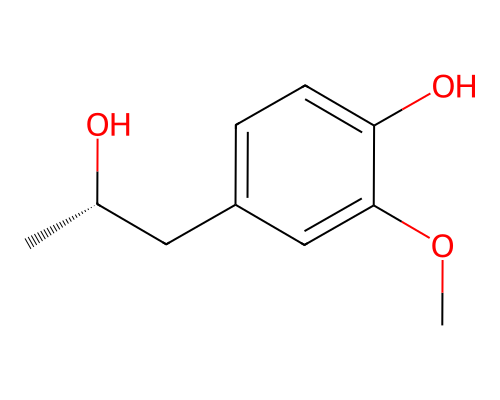
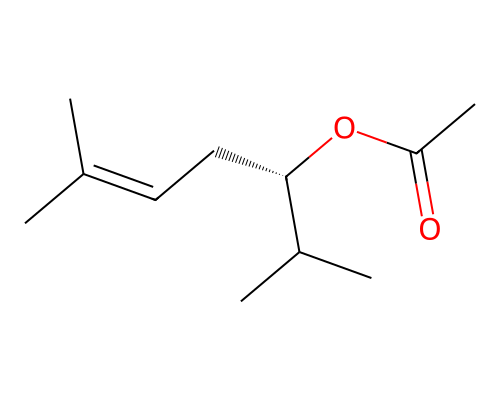
feat(NPGPT-rl): add comprehensive README for RL fine-tuning module
Add detailed README.md to src/NPGPT-rl/ documenting the full
REINFORCE-based RL fine-tuning pipeline for NPGPT.

Contents:
- Pipeline overview diagram (links to docs/npgpt_rl_pipeline.png)
- File structure table explaining each script's role:
  train_rl.py, reward.py, acegen_adapter.py,
  sweep_checkpoints.py, compare_models.py
- Algorithm description with mathematical formulations:
  REINFORCE with baseline subtraction, KL regularization
  against frozen prior (πref), multi-objective reward function
  (validity w=1.0, QED w=0.3, SA w=0.3, NP-likeness w=0.4)
- Detailed usage instructions for three workflows:
  1. RL training (train_rl.py) with all CLI arguments
  2. Checkpoint sweep evaluation (sweep_checkpoints.py)
  3. Pretrained vs RL model comparison (compare_models.py)
- ASCII architecture diagram of the full pipeline
- Dependency list and paper references
  (Thomas et al. JCIM 2025, Bou et al. JCIM 2024, Sakano et al. 2025)

diff --git a/src/npgpt-rl/README.md b/src/npgpt-rl/README.md
@@ -1,0 +1,196 @@
+# NPGPT-RL: Reinforcement Learning Fine-tuning for NPGPT
+
+NPGPT-RL applies the REINFORCE policy gradient algorithm to fine-tune the pretrained [NPGPT](https://github.com/ohuelab/npgpt) model (~2.6M parameters), optimizing for multi-objective molecular properties. The RL approach is based on [Thomas et al. (2025)](https://doi.org/10.1021/acs.jcim.5c02053) and uses the [AceGen](https://github.com/acellera/acegen-open) framework.
+
+![NPGPT-RL Pipeline](../../docs/npgpt_rl_pipeline.png)
+
+## Overview
+
+The RL fine-tuning pipeline consists of the following components:
+
+| File | Description |
+|------|-------------|
+| `train_rl.py` | Main RL training script (REINFORCE + experience replay + KL regularization) |
+| `reward.py` | Multi-objective reward function (validity, QED, SA, NP-likeness) |
+| `acegen_adapter.py` | Adapter to bridge NPGPT (HuggingFace GPT-2) with AceGen's RL environment |
+| `sweep_checkpoints.py` | Evaluate all checkpoints and plot metrics vs training step |
+| `compare_models.py` | Compare pretrained vs RL-finetuned model with histograms |
+| `npgpt.ckpt` | Pretrained NPGPT checkpoint |
+| `npgpt_rl_step_600.ckpt` | Best RL-finetuned checkpoint (step 600) |
+
+## Algorithm
+
+NPGPT-RL uses REINFORCE with the following components:
+
+**Policy Gradient (REINFORCE with baseline)**:
+
+$$\nabla_\theta J(\theta) = \mathbb{E}\left[\nabla_\theta \log \pi_\theta(a|s) \cdot (R - b)\right]$$
+
+where $b = \mathbb{E}[R]$ is the baseline for variance reduction.
+
+**KL Regularization**:
+
+A frozen copy of the pretrained model ($\pi_{\text{ref}}$) serves as a reference to prevent mode collapse:
+
+$$\mathcal{L} = -\log \pi_\theta(a|s) \cdot (R - b) + \beta \cdot \text{KL}(\pi_\theta \| \pi_{\text{ref}})$$
+
+**Multi-Objective Reward**:
+
+$$R = \frac{w_v \cdot r_{\text{valid}} + w_q \cdot r_{\text{QED}} + w_s \cdot r_{\text{SA}} + w_n \cdot r_{\text{NP}}}{w_v + w_q + w_s + w_n}$$
+
+For invalid SMILES, $R = -0.5$ (penalty).
+
+| Component | Weight | Range | Description |
+|-----------|--------|-------|-------------|
+| Validity | 1.0 | {0, 1} | RDKit parseable |
+| QED | 0.3 | [0, 1] | Drug-likeness (Bickerton et al.) |
+| SA | 0.3 | [0, 1] | Synthetic accessibility (inverted, normalized) |
+| NP-likeness | 0.4 | [0, 1] | Natural product likeness (sigmoid normalized) |
+| Invalid penalty | — | -0.5 | Applied when SMILES is invalid |
+
+## Usage
+
+### 1. RL Training
+
+```bash
+# Default settings (recommended)
+python src/NPGPT-rl/train_rl.py
+
+# Custom settings
+python src/NPGPT-rl/train_rl.py \
+    --checkpoint src/NPGPT-rl/npgpt.ckpt \
+    --tokenizer externals/smiles-gpt/checkpoints/benchmark-10m/tokenizer.json \
+    --total_smiles 10000 \
+    --num_envs 128 \
+    --kl_coefficient 0.01 \
+    --lr 1e-4 \
+    --save_every 50
+
+# GPU training
+python src/NPGPT-rl/train_rl.py --device cuda
+
+# MPS (Apple Silicon)
+python src/NPGPT-rl/train_rl.py --device mps
+```
+
+**Key Arguments**:
+
+| Argument | Default | Description |
+|----------|---------|-------------|
+| `--checkpoint` | `src/NPGPT-rl/npgpt.ckpt` | Pretrained NPGPT checkpoint |
+| `--tokenizer` | `externals/smiles-gpt/.../tokenizer.json` | HuggingFace tokenizer |
+| `--total_smiles` | 10000 | Total SMILES generation budget |
+| `--num_envs` | 128 | Parallel generation batch size |
+| `--lr` | 1e-4 | Learning rate |
+| `--kl_coefficient` | 0.01 | KL regularization strength ($\beta$) |
+| `--temperature` | 1.0 | Sampling temperature |
+| `--save_every` | 50 | Checkpoint save interval (steps) |
+| `--experience_replay` | True | Enable experience replay buffer |
+| `--max_grad_norm` | 1.0 | Gradient clipping |
+| `--device` | auto | Device (auto/cpu/cuda/mps) |
+
+**Reward Weight Arguments**:
+
+| Argument | Default |
+|----------|---------|
+| `--w_validity` | 1.0 |
+| `--w_qed` | 0.3 |
+| `--w_sa` | 0.3 |
+| `--w_np_likeness` | 0.4 |
+| `--invalid_penalty` | -0.5 |
+
+**Output**: Checkpoints are saved to `results/rl/npgpt_rl_<timestamp>/` in two formats:
+- `actor_step_N.pt` — AceGen actor state (for resuming RL training)
+- `actor_step_N.pt.npgpt.ckpt` — NPGPT-compatible checkpoint (for inference)
+
+### 2. Checkpoint Sweep
+
+Evaluate all saved RL checkpoints and find the best one:
+
+```bash
+python src/NPGPT-rl/sweep_checkpoints.py
+```
+
+This generates 100 molecules per checkpoint (temp=1.5, top_p=1.0), computes validity/QED/SA/NP-likeness, and saves a plot to `results/sweep_metrics.png`.
+
+### 3. Model Comparison
+
+Compare pretrained vs RL-finetuned model:
+
+```bash
+# Default (uses step 600 checkpoint)
+python src/NPGPT-rl/compare_models.py
+
+# Custom settings
+python src/NPGPT-rl/compare_models.py \
+    --n_samples 500 \
+    --temperature 1.5 \
+    --seed 42 \
+    --rl_ckpt src/NPGPT-rl/npgpt_rl_step_600.ckpt
+```
+
+Outputs a comparison histogram to `results/comparison_histogram.png` with:
+- Validity bar chart
+- QED / SA / NP-likeness distribution histograms
+- Sanitization error breakdown (parse / valence / kekulize)
+
+## Architecture
+
+```
+┌─────────────────────────────────────────────────────────────────┐
+│                        NPGPT-RL Pipeline                        │
+├─────────────────────────────────────────────────────────────────┤
+│                                                                 │
+│  ┌──────────┐    ┌───────────────┐    ┌──────────────────────┐  │
+│  │  NPGPT   │───▶│  AceGen       │───▶│  Generate SMILES     │  │
+│  │Pretrained│    │  Adapter      │    │  Batch (128 envs)    │  │
+│  └──────────┘    │(acegen_adapter│    └──────────┬───────────┘  │
+│       │          │    .py)       │               │              │
+│       │          └───────────────┘               ▼              │
+│       │                              ┌──────────────────────┐   │
+│       │                              │  Multi-Objective     │   │
+│       │                              │  Reward (reward.py)  │   │
+│       │                              │  ┌────┬────┬───┬───┐ │   │
+│       │                              │  │Val │QED │SA │NP │ │   │
+│       │                              │  │1.0 │0.3 │0.3│0.4│ │   │
+│       │                              │  └────┴────┴───┴───┘ │   │
+│       │                              └──────────┬───────────┘   │
+│       │                                         │               │
+│       ▼                                         ▼               │
+│  ┌──────────┐                        ┌──────────────────────┐   │
+│  │  πref    │─── KL Divergence ────▶ │  REINFORCE Loss      │   │
+│  │ (Frozen) │                        │  + KL Penalty        │   │
+│  └──────────┘                        │  + Exp. Replay       │   │
+│                                      └──────────┬───────────┘   │
+│                                                 │               │
+│                                                 ▼               │
+│                                      ┌──────────────────────┐   │
+│                                      │  Update πθ (Adam)    │   │
+│                                      │  grad clip = 1.0     │   │
+│                                      └──────────────────────┘   │
+│                                                                 │
+├─────────────────────────────────────────────────────────────────┤
+│  Checkpoint saved every 50 steps → sweep → best: step 600      │
+└─────────────────────────────────────────────────────────────────┘
+```
+
+## Dependencies
+
+NPGPT-RL requires the following additional packages beyond the base NPComposer dependencies:
+
+```
+torchrl
+tensordict
+acegen (submodule: external/acegen-open)
+rdkit
+numpy
+matplotlib
+```
+
+These are installed automatically via `bash setup.sh` or `make setup`.
+
+## References
+
+- Thomas, M. et al. "REINFORCE-ING Chemical Language Models for Drug Discovery." *J. Chem. Inf. Model.* 65, 12752–12763 (2025). [DOI](https://doi.org/10.1021/acs.jcim.5c02053)
+- Bou, A. et al. "ACEGEN: Reinforcement Learning of Generative Chemical Agents for Drug Discovery." *J. Chem. Inf. Model.* 64(15), 5900–5911 (2024). [DOI](https://doi.org/10.1021/acs.jcim.4c00895)
+- Sakano, K. et al. "NPGPT: Natural Product-Like Compound Generation with GPT-based Chemical Language Models." *J. Supercomput.* 81, 1–20 (2025).
